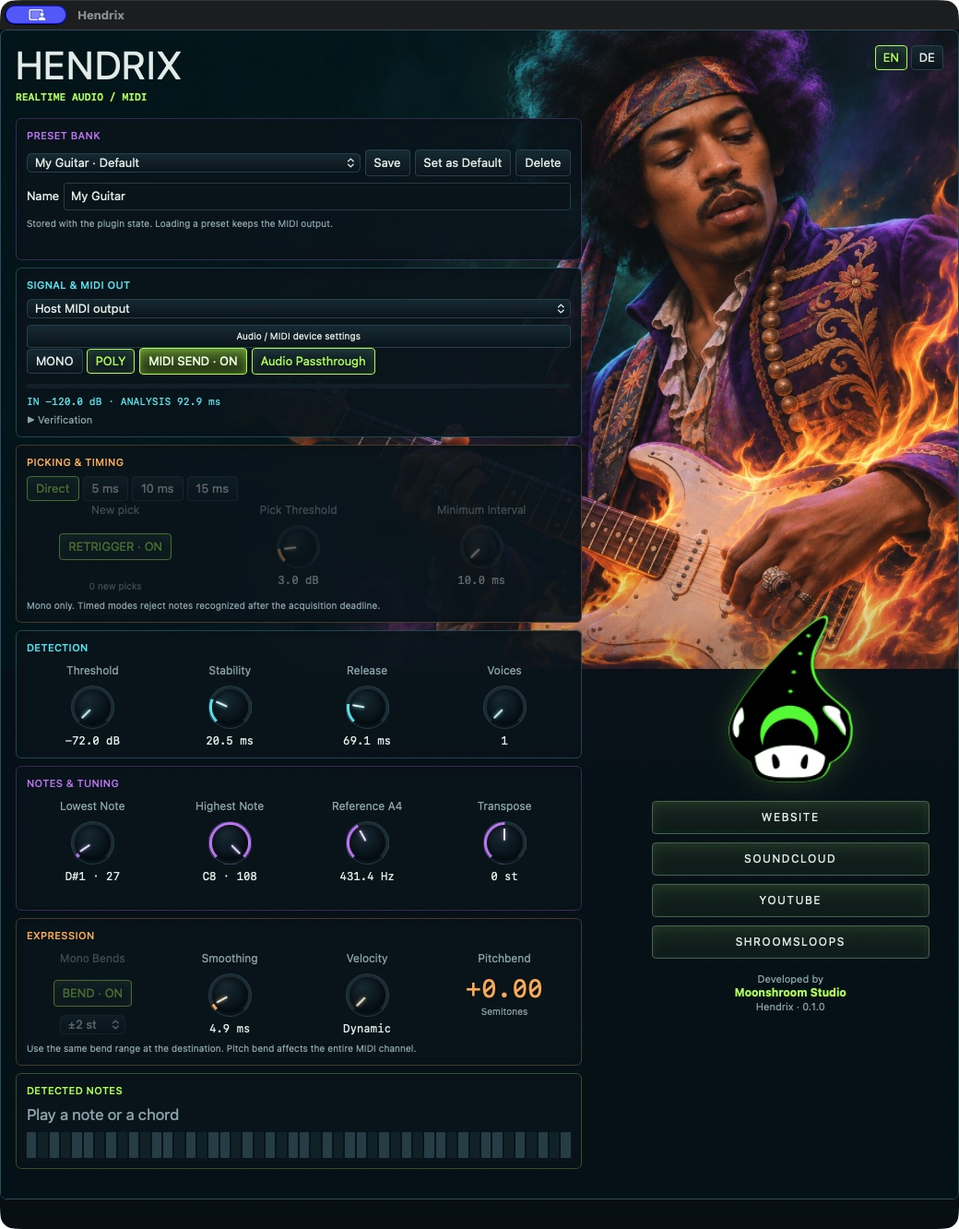
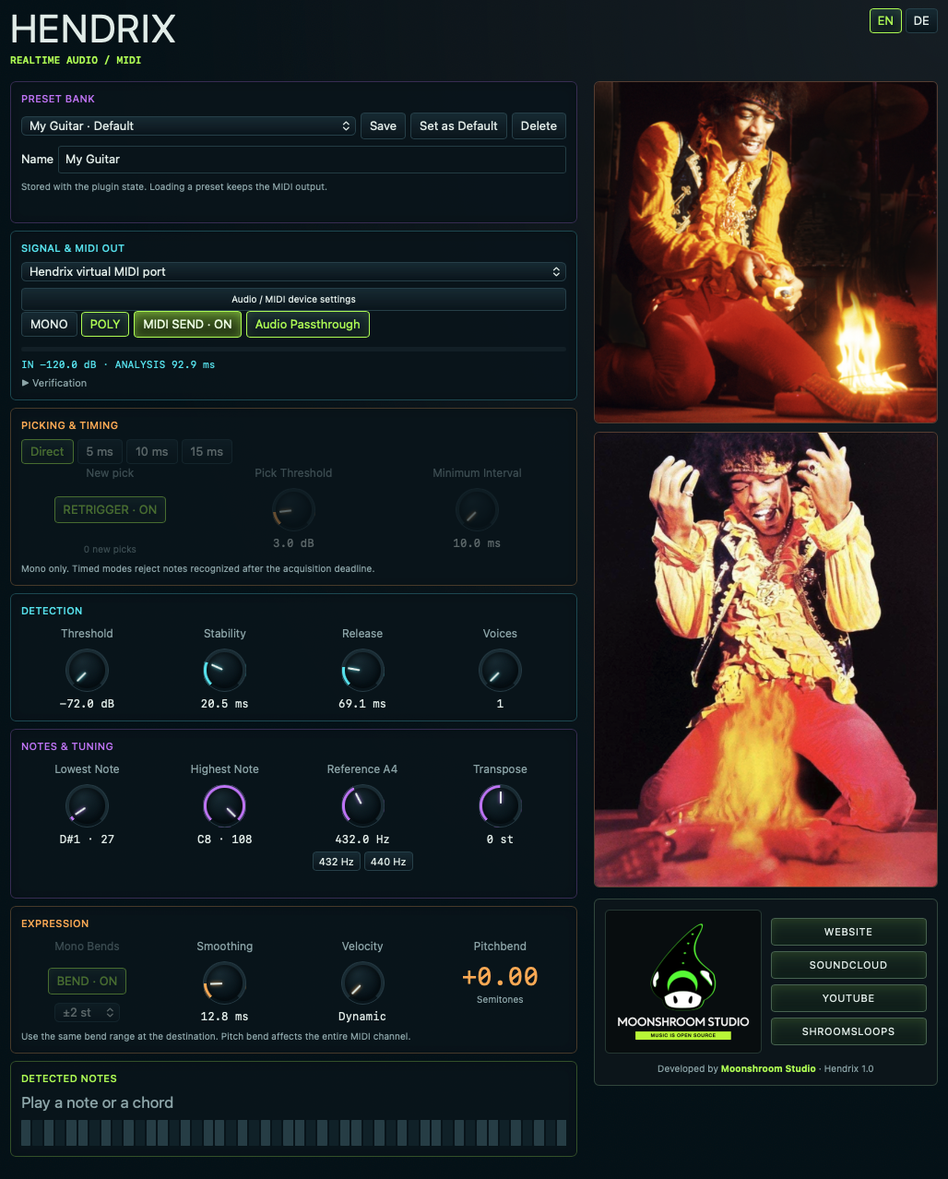
Refresh Hendrix 1.0 source and screenshot

diff --git a/index.html b/index.html
@@ -1,13 +1,67 @@
 <!doctype html><html lang="en"><meta charset="utf-8"><meta name="viewport" content="width=device-width,initial-scale=1">
 <title>Hendrix · Moonshroom Studio</title>
 <style>
-:root{color-scheme:dark;--lime:#a6ff48;--cyan:#45e6ee;--purple:#cf77f9;--fire:#ffaf53;--ink:#e4efeb;--muted:#94aeb1}*{box-sizing:border-box}html,body{margin:0;min-height:100%;background:#020d13;color:var(--ink);font:13px/1.35 -apple-system,BlinkMacSystemFont,"Segoe UI",sans-serif}body{overflow:auto}button,input,select{font:inherit;color:inherit}button,select{border:1px solid #284953;border-radius:4px;background:linear-gradient(#14303a,#06151e);padding:5px 9px;cursor:pointer}button:hover,select:hover{border-color:var(--cyan)}button.active{color:var(--lime);border-color:var(--lime);box-shadow:inset 0 0 12px #a6ff4824}button:disabled{opacity:.38;cursor:default}input{min-width:0;border:1px solid #24454d;background:#04141c;border-radius:3px;padding:5px 7px}button:focus-visible,a:focus-visible,input:focus-visible,select:focus-visible{outline:2px solid var(--lime);outline-offset:3px}#plugin{display:grid;grid-template-columns:61% 1fr 29% 1%;grid-template-rows:auto 1fr;align-items:start;position:relative;min-height:1120px;max-width:1600px;margin:auto;border:1px solid #285867;border-radius:7px;padding:16px;background:#031018 url(hendrix-fire.png) top center/100% auto no-repeat;overflow:hidden}#plugin:before{position:absolute;inset:0;content:"";background:linear-gradient(90deg,#02101758,transparent 72%),linear-gradient(0deg,#031018 15%,transparent 55%);pointer-events:none}header,main,aside{position:relative}header{grid-column:1/-1;display:flex;justify-content:space-between;align-items:flex-start;margin-bottom:17px}h1{font-size:42px;font-weight:400;line-height:1;margin:0 0 7px;letter-spacing:1px}.subtitle{color:var(--lime);font:11px ui-monospace,monospace;font-weight:600}.languages{display:flex;gap:4px}.languages button{padding:4px 8px}.controls{grid-column:1;grid-row:2;min-width:0;display:grid;gap:8px;padding-bottom:16px}section{--accent:var(--cyan);padding:11px;border:1px solid color-mix(in srgb,var(--accent) 26%,transparent);border-radius:6px;background:#04131ce8;box-shadow:inset 0 1px 14px #0003}section h2{font-size:11px;line-height:1.25;font-weight:500;color:var(--accent);margin:0 0 9px;letter-spacing:.35px}.purple{--accent:var(--purple)}.fire{--accent:var(--fire)}.green{--accent:var(--lime)}.row{display:flex;align-items:center;gap:5px;flex-wrap:wrap}.row+.row{margin-top:7px}.grow{flex:1;min-width:100px}#presetName{width:145px;flex:1}small,.hint{font-size:10px;line-height:1.4;color:var(--muted)}.hint{margin-top:7px}.meter{height:5px;border-radius:3px;background:#10232b;overflow:hidden;margin:10px 0 7px}.meter>i{display:block;height:100%;width:0;background:var(--cyan);box-shadow:0 0 10px var(--cyan)}.stats{font:11px ui-monospace,monospace;color:var(--cyan)}details{margin-top:7px}summary{font-size:11px;color:var(--muted);cursor:pointer}.knobs{display:grid;grid-template-columns:repeat(4,minmax(0,1fr));gap:6px}.knobs.two{grid-template-columns:repeat(2,minmax(0,1fr))}.knobs.three{grid-template-columns:repeat(3,minmax(0,1fr))}.knobbox{text-align:center;min-width:0}.knoblabel{font-size:12px;color:var(--muted);min-height:20px;margin-top:2px}.knob{display:block;position:relative;width:47px;height:47px;border-radius:50%;padding:0;margin:4px auto 5px;background:conic-gradient(from 225deg,var(--accent) 0deg,var(--accent) var(--angle),#19313b var(--angle),#19313b 270deg,transparent 270deg);border:1px solid #28434e;cursor:ns-resize;touch-action:none}.knob:before{content:"";position:absolute;inset:3px;border-radius:50%;background:radial-gradient(circle at 35% 25%,#17303a,#041018 70%);box-shadow:inset 0 0 8px #000a}.knob:after{position:absolute;content:"";width:2px;height:13px;background:var(--ink);left:calc(50% - 1px);top:7px;transform-origin:1px 16px;transform:rotate(var(--rotation));border-radius:1px;box-shadow:0 0 4px var(--accent)}.knobvalue{display:block;font:12px ui-monospace,monospace;white-space:nowrap}.knobvalue.zero{color:var(--muted)}.segments{display:flex;gap:4px;flex-wrap:wrap}.segments button{padding:4px 9px}.disabled{opacity:.38;pointer-events:none}.bigbend{font:27px ui-monospace,monospace;color:var(--fire);text-align:center;margin-top:4px}.notenames{color:var(--muted);font-size:17px;margin-bottom:8px}.keyboard{display:flex;gap:2px;height:28px}.key{background:#28464f;flex:1;border-radius:1px}.key.black{background:#0c252e}.key.played{background:var(--lime);box-shadow:0 0 10px var(--lime)}#latency{font:10px ui-monospace,monospace;color:var(--fire);margin-top:5px;min-height:13px}
-.studio{grid-column:3;grid-row:2;margin-top:clamp(380px,calc(61vw - 80px),840px);text-align:center}
-.logo{display:block;width:100%;max-width:248px;margin:0 auto 14px;padding:8px;background:#f3f0e6;border-radius:6px}
-.logo img{display:block;width:100%;height:auto}
+:root{color-scheme:dark;--lime:#a6ff48;--cyan:#45e6ee;--purple:#cf77f9;--fire:#ffaf53;--ink:#e4efeb;--muted:#94aeb1}*{box-sizing:border-box}html,body{margin:0;min-height:100%;background:#020d13;color:var(--ink);font:13px/1.35 -apple-system,BlinkMacSystemFont,"Segoe UI",sans-serif}body{overflow:auto}button,input,select{font:inherit;color:inherit}button,select{border:1px solid #284953;border-radius:4px;background:linear-gradient(#14303a,#06151e);padding:5px 9px;cursor:pointer}button:hover,select:hover{border-color:var(--cyan)}button.active{color:var(--lime);border-color:var(--lime);box-shadow:inset 0 0 12px #a6ff4824}button:disabled{opacity:.38;cursor:default}input{min-width:0;border:1px solid #24454d;background:#04141c;border-radius:3px;padding:5px 7px}button:focus-visible,a:focus-visible,input:focus-visible,select:focus-visible{outline:2px solid var(--lime);outline-offset:3px}#plugin{
+  display:grid;
+  grid-template-columns:minmax(0,1.65fr) minmax(0,1fr);
+  grid-template-rows:auto 1fr;
+  column-gap:18px;
+  align-items:start;
+  min-height:100vh;
+  max-width:1600px;
+  margin:auto;
+  border:1px solid #285867;
+  border-radius:7px;
+  padding:16px;
+  background:radial-gradient(ellipse at top right,#162128,#031018 65%);
+}
+header,main,aside{position:relative}header{grid-column:1/-1;display:flex;justify-content:space-between;align-items:flex-start;margin-bottom:17px}h1{font-size:42px;font-weight:400;line-height:1;margin:0 0 7px;letter-spacing:1px}.subtitle{color:var(--lime);font:11px ui-monospace,monospace;font-weight:600}.languages{display:flex;gap:4px}.languages button{padding:4px 8px}.controls{grid-column:1;grid-row:2;min-width:0;display:grid;gap:8px;padding-bottom:16px}section{--accent:var(--cyan);padding:11px;border:1px solid color-mix(in srgb,var(--accent) 26%,transparent);border-radius:6px;background:#04131ce8;box-shadow:inset 0 1px 14px #0003}section h2{font-size:11px;line-height:1.25;font-weight:500;color:var(--accent);margin:0 0 9px;letter-spacing:.35px}.purple{--accent:var(--purple)}.fire{--accent:var(--fire)}.green{--accent:var(--lime)}.row{display:flex;align-items:center;gap:5px;flex-wrap:wrap}.row+.row{margin-top:7px}.grow{flex:1;min-width:100px}#presetName{width:145px;flex:1}small,.hint{font-size:10px;line-height:1.4;color:var(--muted)}.hint{margin-top:7px}.meter{height:5px;border-radius:3px;background:#10232b;overflow:hidden;margin:10px 0 7px}.meter>i{display:block;height:100%;width:0;background:var(--cyan);box-shadow:0 0 10px var(--cyan)}.stats{font:11px ui-monospace,monospace;color:var(--cyan)}details{margin-top:7px}summary{font-size:11px;color:var(--muted);cursor:pointer}.knobs{display:grid;grid-template-columns:repeat(4,minmax(0,1fr));gap:6px}.knobs.two{grid-template-columns:repeat(2,minmax(0,1fr))}.knobs.three{grid-template-columns:repeat(3,minmax(0,1fr))}.knobbox{text-align:center;min-width:0}.knoblabel{font-size:12px;color:var(--muted);min-height:20px;margin-top:2px}.knob{display:block;position:relative;width:47px;height:47px;border-radius:50%;padding:0;margin:4px auto 5px;background:conic-gradient(from 225deg,var(--accent) 0deg,var(--accent) var(--angle),#19313b var(--angle),#19313b 270deg,transparent 270deg);border:1px solid #28434e;cursor:ns-resize;touch-action:none}.knob:before{content:"";position:absolute;inset:3px;border-radius:50%;background:radial-gradient(circle at 35% 25%,#17303a,#041018 70%);box-shadow:inset 0 0 8px #000a}.knob:after{position:absolute;content:"";width:2px;height:13px;background:var(--ink);left:calc(50% - 1px);top:7px;transform-origin:1px 16px;transform:rotate(var(--rotation));border-radius:1px;box-shadow:0 0 4px var(--accent)}.knobvalue{display:block;font:12px ui-monospace,monospace;white-space:nowrap}.knobvalue.zero{color:var(--muted)}.segments{display:flex;gap:4px;flex-wrap:wrap}.segments button{padding:4px 9px}.disabled{opacity:.38;pointer-events:none}.bigbend{font:27px ui-monospace,monospace;color:var(--fire);text-align:center;margin-top:4px}.notenames{color:var(--muted);font-size:17px;margin-bottom:8px}.keyboard{display:flex;gap:2px;height:28px}.key{background:#28464f;flex:1;border-radius:1px}.key.black{background:#0c252e}.key.played{background:var(--lime);box-shadow:0 0 10px var(--lime)}#latency{font:10px ui-monospace,monospace;color:var(--fire);margin-top:5px;min-height:13px}
+.a4-control{min-width:0}
+.a4-presets{display:flex;justify-content:center;gap:4px;flex-wrap:wrap;margin-top:6px}
+.a4-presets button{font-size:11px;line-height:1.2;padding:3px 6px;white-space:nowrap}
+.studio{grid-column:2;grid-row:2;display:grid;gap:12px;min-width:0}
+.portraits{display:grid;gap:9px;margin:0}
+.portraits img{display:block;width:100%;height:auto;border-radius:6px;border:1px solid #624437}
+.studio-card{
+  display:grid;
+  grid-template-columns:repeat(2,minmax(0,1fr));
+  align-items:center;
+  gap:10px;
+  padding:11px;
+  background:#08151c;
+  border:1px solid #355044;
+  border-radius:6px;
+  text-align:center;
+}
+.logo{display:block;padding:6px;background:#030a0d;border:1px solid #274039;border-radius:5px}
+.logo-art{display:block;position:relative}
+.logo-art img{display:block;width:100%;height:auto}
+.logo-art::after{
+  content:"";
+  position:absolute;
+  inset:0;
+  background:url(moonshroom-studio.png) center / 100% 100% no-repeat;
+  /* Keep the original artwork and lift only the dark wordmark for contrast. */
+  clip-path:inset(76.5% 0 15% 0);
+  filter:brightness(0) invert(.94);
+  pointer-events:none;
+}
 .logo:hover,.logo:focus-visible{outline:2px solid var(--lime);outline-offset:2px}
-.studio nav{display:grid;gap:9px}.studio nav a{display:block;color:var(--ink);text-decoration:none;text-transform:uppercase;font-size:12px;letter-spacing:1.5px;padding:9px 5px;border:1px solid #4c6e59;border-radius:4px;background:linear-gradient(#183324e8,#041a18ef);box-shadow:inset 0 1px 10px #a6ff4817}.studio nav a:hover{color:var(--lime);border-color:var(--lime);box-shadow:0 0 10px #a6ff4833}.credit{font-size:11px;color:var(--muted);margin-top:15px}.credit strong{color:var(--lime);display:block;font-size:12px}.status{min-height:15px;color:var(--purple);font-size:11px;margin-top:6px}#send.active{background:linear-gradient(#518022,#183009);color:#edffe6;box-shadow:inset 0 0 9px #a6ff4870}#route{width:100%}.devices{margin-top:7px;font-size:10px;width:100%}#preview{font-size:10px;color:var(--muted);display:none;margin-top:5px}
-@media(max-width:650px){#plugin{display:block;padding:11px;background-size:140% auto;background-position:70% top}.controls{width:100%;padding-top:135px}.studio{width:100%;display:grid;grid-template-columns:minmax(110px,35%) 1fr;gap:15px;align-items:center;margin-top:10px}.studio .logo{margin:0}.studio .credit{grid-column:1/-1;margin:0}.studio nav{gap:5px;grid-template-columns:1fr 1fr}.studio nav a{font-size:10px;letter-spacing:.5px;padding:8px 3px}h1{font-size:36px}.knoblabel{font-size:11px}.knobvalue{font-size:10px}}
+.studio nav{display:grid;gap:6px}
+.studio nav a{display:block;color:var(--ink);text-decoration:none;text-transform:uppercase;font-size:11px;letter-spacing:.6px;padding:7px 4px;border:1px solid #4c6e59;border-radius:4px;background:linear-gradient(#183324,#041a18);box-shadow:inset 0 1px 10px #a6ff4817}
+.studio nav a:hover{color:var(--lime);border-color:var(--lime);box-shadow:0 0 10px #a6ff4833}
+.credit{grid-column:1/-1;font-size:10px;color:var(--muted)}
+.credit strong{color:var(--lime)}
+.status{min-height:15px;color:var(--purple);font-size:11px;margin-top:6px}#send.active{background:linear-gradient(#518022,#183009);color:#edffe6;box-shadow:inset 0 0 9px #a6ff4870}#route{width:100%}.devices{margin-top:7px;font-size:10px;width:100%}#preview{font-size:10px;color:var(--muted);display:none;margin-top:5px}
+@media(max-width:650px){
+  #plugin{display:block;padding:11px}
+  .studio{gap:10px}
+  .portraits{grid-template-columns:repeat(2,minmax(0,1fr));align-items:start}
+  .studio-card{max-width:380px;width:100%;margin:auto}
+  h1{font-size:36px}
+  .knoblabel{font-size:11px}
+  .knobvalue{font-size:10px}
+}
 </style>
 <div id="plugin"><header><div><h1>HENDRIX</h1><div class="subtitle" data-i="subtitle">REALTIME AUDIO / MIDI</div><div id="preview" data-i="preview">Interface preview · no audio input</div></div><div class="languages"><button id="en" aria-label="English">EN</button><button id="de" aria-label="Deutsch">DE</button></div></header>
 <main class="controls">
@@ -15,11 +69,34 @@
 <section><h2 data-i="signal">SIGNAL & MIDI OUT</h2><select id="route" aria-label="MIDI output"><option value="0" data-i="hostOut">Host MIDI output</option><option value="1" data-i="virtualOut">Hendrix virtual MIDI port</option></select><button class="devices" id="devices" data-i="devices">Audio / MIDI device settings</button><div class="row"><div class="segments" data-segment="0"><button data-value="0">MONO</button><button data-value="1">POLY</button></div><button id="send" data-toggle="1" data-i="send">MIDI SEND</button><button data-toggle="12" data-i="passthrough">Audio Passthrough</button></div><div class="meter"><i id="meter"></i></div><div class="stats" id="stats">IN −120.0 dB</div><details><summary data-i="verification">Verification</summary><div class="segments" data-segment="11"><button data-value="0" data-i="fast">Fast</button><button data-value="1" data-i="balanced">Balanced</button><button data-value="2" data-i="accurate">Accurate</button></div></details></section>
 <section class="fire"><h2 data-i="picking">PICKING & TIMING</h2><div id="monoTiming"><div class="segments" data-segment="16"><button data-value="0" data-i="direct">Direct</button><button data-value="1">5 ms</button><button data-value="2">10 ms</button><button data-value="3">15 ms</button></div><div class="knobs three"><div class="knobbox"><div class="knoblabel" data-i="repick">New pick</div><button data-toggle="17" data-i="retrigger" style="margin:13px auto 14px">RETRIGGER</button><div class="hint" id="attacks">0</div></div><div data-knob="18"></div><div data-knob="19"></div></div></div><div class="hint" data-i="timingHint">Mono only. Timed modes reject notes recognized after the acquisition deadline.</div></section>
 <section><h2 data-i="detection">DETECTION</h2><div class="knobs"><div data-knob="2"></div><div data-knob="3"></div><div data-knob="4"></div><div data-knob="7"></div></div></section>
-<section class="purple"><h2 data-i="tuning">NOTES & TUNING</h2><div class="knobs"><div data-knob="5"></div><div data-knob="6"></div><div data-knob="8"></div><div data-knob="9"></div></div><div id="latency" title=""></div></section>
+<section class="purple"><h2 data-i="tuning">NOTES & TUNING</h2><div class="knobs"><div data-knob="5"></div><div data-knob="6"></div><div class="a4-control">
+  <div data-knob="8"></div>
+  <div class="a4-presets" role="group" aria-label="A4">
+    <button type="button" data-a4="432" aria-pressed="false">432 Hz</button>
+    <button type="button" data-a4="440" aria-pressed="false">440 Hz</button>
+  </div>
+</div><div data-knob="9"></div></div><div id="latency" title=""></div></section>
 <section class="fire"><h2 data-i="expression">EXPRESSION</h2><div class="knobs"><div class="knobbox" id="monoBend"><div class="knoblabel" data-i="monoBends">Mono Bends</div><button data-toggle="13" data-i="bend" style="margin-top:11px">BEND</button><select id="bendRange" aria-label="Pitch-bend range" style="margin-top:9px"><option value="0">±2 st</option><option value="1">±12 st</option><option value="2">±24 st</option></select></div><div data-knob="15"></div><div data-knob="10"></div><div class="knobbox"><div class="knoblabel" data-i="pitchbend">Pitchbend</div><div class="bigbend" id="bend">+0.00</div><small data-i="semitones">Semitones</small></div></div><div class="hint" data-i="bendHint">Use the same bend range at the destination. Pitch bend affects the entire MIDI channel.</div></section>
 <section class="green"><h2 data-i="detected">DETECTED NOTES</h2><div class="notenames" id="notes" data-i="play">Play a note or a chord</div><div class="keyboard" id="keyboard" aria-label="Detected MIDI notes"></div></section>
 </main>
-<aside class="studio"><a class="logo" data-link="0" href="https://moonshroom.moonshroom303.chatgpt.site/" target="_blank" rel="noopener noreferrer" aria-label="Moonshroom Studio · Website"><img src="moonshroom-studio.png" width="1312" height="1199" alt="Moonshroom Studio – Music is Open Source"></a><nav><a data-link="0" href="https://moonshroom.moonshroom303.chatgpt.site/" target="_blank" rel="noopener noreferrer" data-i="website">Website</a><a data-link="1" href="https://www.soundcloud.com/moonshroom303" target="_blank" rel="noopener noreferrer">SoundCloud</a><a data-link="2" href="https://www.youtube.com/@moonshroom303" target="_blank" rel="noopener noreferrer">YouTube</a><a data-link="3" href="https://shroomsloops-studio-231026.moonshroom303.chatgpt.site/#" target="_blank" rel="noopener noreferrer">ShroomsLoops</a></nav><div class="credit"><span data-i="developed">Developed by</span><strong>Moonshroom Studio</strong><span>Hendrix · 1.0</span></div></aside></div>
+<aside class="studio">
+  <figure class="portraits">
+    <img src="hendrix-live-01.png" width="1046" height="1041" alt="Jimi Hendrix kneels beside his burning guitar">
+    <img src="hendrix-live-02.png" width="978" height="1298" alt="Jimi Hendrix raises his hands above the flames">
+  </figure>
+  <div class="studio-card">
+    <a class="logo" data-link="0" href="https://moonshroom.moonshroom303.chatgpt.site/" target="_blank" rel="noopener noreferrer" aria-label="Moonshroom Studio · Website">
+      <span class="logo-art"><img src="moonshroom-studio.png" width="1312" height="1199" alt="Moonshroom Studio – Music is Open Source"></span>
+    </a>
+    <nav>
+      <a data-link="0" href="https://moonshroom.moonshroom303.chatgpt.site/" target="_blank" rel="noopener noreferrer" data-i="website">Website</a>
+      <a data-link="1" href="https://www.soundcloud.com/moonshroom303" target="_blank" rel="noopener noreferrer">SoundCloud</a>
+      <a data-link="2" href="https://www.youtube.com/@moonshroom303" target="_blank" rel="noopener noreferrer">YouTube</a>
+      <a data-link="3" href="https://shroomsloops-studio-231026.moonshroom303.chatgpt.site/#" target="_blank" rel="noopener noreferrer">ShroomsLoops</a>
+    </nav>
+    <div class="credit"><span data-i="developed">Developed by</span> <strong>Moonshroom Studio</strong> <span>· Hendrix 1.0</span></div>
+  </div>
+</aside></div>
 <script>
 'use strict';
 const D={en:{subtitle:'REALTIME AUDIO / MIDI',preview:'Interface preview · no audio input',presetBank:'PRESET BANK',save:'Save',default:'Set as Default',delete:'Delete',name:'Name',presetHint:'Stored with the plugin state. Loading a preset keeps the MIDI output.',signal:'SIGNAL & MIDI OUT',hostOut:'Host MIDI output',virtualOut:'Hendrix virtual MIDI port',devices:'Audio / MIDI device settings',send:'MIDI SEND',passthrough:'Audio Passthrough',verification:'Verification',fast:'Fast',balanced:'Balanced',accurate:'Accurate',picking:'PICKING & TIMING',direct:'Direct',repick:'New pick',retrigger:'RETRIGGER',timingHint:'Mono only. Timed modes reject notes recognized after the acquisition deadline.',detection:'DETECTION',tuning:'NOTES & TUNING',expression:'EXPRESSION',monoBends:'Mono Bends',bend:'BEND',pitchbend:'Pitchbend',semitones:'Semitones',bendHint:'Use the same bend range at the destination. Pitch bend affects the entire MIDI channel.',detected:'DETECTED NOTES',play:'Play a note or a chord',website:'Website',developed:'Developed by',dynamic:'Dynamic',on:'ON',off:'OFF',defaultMark:'Default',factory:'Factory settings',waiting:'waiting',period:'PERIOD',analysis:'ANALYSIS',newPicks:'new picks',latency:'Lowest note',latencyHint:'Estimated recognition time for the lowest permitted note: one to one-and-a-half periods. Hardware buffers and the synth add latency. Higher played notes are recognized faster.',saved:'Preset saved',defaultSaved:'Default saved',deleted:'Preset deleted',needName:'Enter a preset name.',hostSettings:'Configure audio and MIDI routing in your DAW.',noNote:'No note detected'},de:{subtitle:'ECHTZEIT AUDIO / MIDI',preview:'Oberflächenvorschau · kein Audioeingang',presetBank:'PRESETBANK',save:'Speichern',default:'Als Standard',delete:'Löschen',name:'Name',presetHint:'Wird im Plugin-Zustand gespeichert. MIDI-Ausgang bleibt beim Presetwechsel erhalten.',signal:'SIGNAL & MIDI-AUSGANG',hostOut:'MIDI-Ausgang des Hosts',virtualOut:'Virtueller Hendrix-MIDI-Port',devices:'Audio-/MIDI-Geräteeinstellungen',send:'MIDI SENDEN',passthrough:'Audio durchlassen',verification:'Nachprüfung',fast:'Schnell',balanced:'Ausgewogen',accurate:'Genau',picking:'ANSCHLÄGE & ZEITMODUS',direct:'Direkt',repick:'Neu anschlagen',retrigger:'RETRIGGER',timingHint:'Nur Mono. Zeitmodi verwerfen Noten, die nach dem Erkennungsfenster erkannt werden.',detection:'ERKENNUNG',tuning:'NOTEN & STIMMUNG',expression:'EXPRESSION',monoBends:'Mono-Bends',bend:'BEND',pitchbend:'Pitchbend',semitones:'Halbtöne',bendHint:'Am Ziel denselben Bend-Bereich einstellen. Pitchbend wirkt auf den gesamten MIDI-Kanal.',detected:'ERKANNTE NOTEN',play:'Spiele eine Note oder einen Akkord',website:'Webseite',developed:'Entwickelt von',dynamic:'Dynamik',on:'AN',off:'AUS',defaultMark:'Standard',factory:'Werkseinstellungen',waiting:'wartet',period:'PERIODE',analysis:'ANALYSE',newPicks:'neue Anschläge',latency:'Tiefste Note',latencyHint:'Geschätzte Erkennung für die tiefste erlaubte Note: eine bis anderthalb Perioden. Audiopuffer und Synth kommen hinzu. Höhere gespielte Noten werden schneller erkannt.',saved:'Preset gespeichert',defaultSaved:'Standard gespeichert',deleted:'Preset gelöscht',needName:'Bitte einen Presetnamen eingeben.',hostSettings:'Audio- und MIDI-Routing im Host einstellen.',noNote:'Keine Note erkannt'}};
@@ -36,11 +113,21 @@ function gesture(i,v){send({msg:'BPCFUI',paramIdx:i});set(i,v);send({msg:'EPCFUI
 for(const box of document.querySelectorAll('[data-knob]')){const i=Number(box.dataset.knob);box.className='knobbox';box.innerHTML='<div class="knoblabel"></div><button class="knob" role="slider" aria-valuemin="'+min[i]+'" aria-valuemax="'+max[i]+'"></button><output class="knobvalue"></output>';const b=box.querySelector('button');let drag=null;b.addEventListener('pointerdown',e=>{if(e.altKey){gesture(i,initial[i]);return}e.preventDefault();b.focus();drag={x:e.clientX,y:e.clientY,value:values[i]};b.setPointerCapture(e.pointerId);send({msg:'BPCFUI',paramIdx:i})});b.addEventListener('pointermove',e=>{if(!drag)return;set(i,drag.value+((e.clientX-drag.x)-(e.clientY-drag.y))/180*(max[i]-min[i])*(e.shiftKey?.12:1))});function end(){if(drag){send({msg:'EPCFUI',paramIdx:i});drag=null}}b.addEventListener('pointerup',end);b.addEventListener('pointercancel',end);b.addEventListener('dblclick',()=>gesture(i,initial[i]));b.addEventListener('keydown',e=>{if(['ArrowUp','ArrowRight','ArrowDown','ArrowLeft'].includes(e.key)){e.preventDefault();gesture(i,values[i]+(['ArrowUp','ArrowRight'].includes(e.key)?1:-1)*Math.max(integer.has(i)?1:0,(max[i]-min[i])*(e.shiftKey?.001:.01)))}})}
 for(const group of document.querySelectorAll('[data-segment]'))for(const button of group.querySelectorAll('button'))button.onclick=()=>gesture(Number(group.dataset.segment),Number(button.dataset.value));
 for(const button of document.querySelectorAll('[data-toggle]'))button.onclick=()=>gesture(Number(button.dataset.toggle),values[Number(button.dataset.toggle)]>=.5?0:1);
+const a4Presets = document.querySelectorAll('[data-a4]');
+for (const button of a4Presets) {
+  button.addEventListener('click', () => gesture(8, Number(button.dataset.a4)));
+}
 $('#bendRange').onchange=e=>gesture(14,Number(e.target.value));
 for(const a of document.querySelectorAll('[data-link]'))a.addEventListener('click',e=>{if(native){e.preventDefault();command(900,{link:Number(a.dataset.link)})}});
 for(const lang of ['en','de'])$('#'+lang).onclick=()=>{language=lang;state.language=lang;command(901,{op:'language',language});renderLanguage()};
 function renderLanguage(){document.documentElement.lang=language;for(const e of document.querySelectorAll('[data-i]')){if(e.id==='notes'&&lastMetrics.notes.length)continue;e.textContent=t(e.dataset.i)}$('#en').classList.toggle('active',language==='en');$('#de').classList.toggle('active',language==='de');for(const box of document.querySelectorAll('[data-knob]')){const i=Number(box.dataset.knob);box.querySelector('.knoblabel').textContent=labels[language][i];box.querySelector('button').setAttribute('aria-label',labels[language][i])}renderPresets();render();metrics(lastMetrics)}
-function render(){for(const box of document.querySelectorAll('[data-knob]')){const i=Number(box.dataset.knob),n=(values[i]-min[i])/(max[i]-min[i]),b=box.querySelector('button');b.style.setProperty('--angle',(270*n)+'deg');b.style.setProperty('--rotation',(-135+270*n)+'deg');b.setAttribute('aria-valuenow',values[i]);b.setAttribute('aria-valuetext',format(i,values[i]));box.querySelector('output').textContent=format(i,values[i])}for(const group of document.querySelectorAll('[data-segment]'))for(const b of group.querySelectorAll('button'))b.classList.toggle('active',Math.round(values[Number(group.dataset.segment)])===Number(b.dataset.value));for(const b of document.querySelectorAll('[data-toggle]')){const on=values[Number(b.dataset.toggle)]>=.5;b.classList.toggle('active',on);b.setAttribute('aria-pressed',on);b.textContent=t(b.dataset.i)+(Number(b.dataset.toggle)===12?'':' · '+t(on?'on':'off'))}$('#monoTiming').classList.toggle('disabled',values[0]>=.5);$('#monoBend').classList.toggle('disabled',values[0]>=.5);$('#bendRange').value=Math.round(values[14]);let period=1000/(values[8]*2**((Math.min(values[5],values[6])-69)/12));$('#latency').textContent=values[0]<.5&&values[16]<.5?t('latency')+' ≈ '+period.toFixed(1)+'–'+(period*1.5).toFixed(1)+' ms':'';$('#latency').title=t('latencyHint')}
+function render(){
+  for (const button of a4Presets) {
+    const active = Math.abs(values[8] - Number(button.dataset.a4)) < 0.001;
+    button.classList.toggle('active', active);
+    button.setAttribute('aria-pressed', String(active));
+  }
+  for(const box of document.querySelectorAll('[data-knob]')){const i=Number(box.dataset.knob),n=(values[i]-min[i])/(max[i]-min[i]),b=box.querySelector('button');b.style.setProperty('--angle',(270*n)+'deg');b.style.setProperty('--rotation',(-135+270*n)+'deg');b.setAttribute('aria-valuenow',values[i]);b.setAttribute('aria-valuetext',format(i,values[i]));box.querySelector('output').textContent=format(i,values[i])}for(const group of document.querySelectorAll('[data-segment]'))for(const b of group.querySelectorAll('button'))b.classList.toggle('active',Math.round(values[Number(group.dataset.segment)])===Number(b.dataset.value));for(const b of document.querySelectorAll('[data-toggle]')){const on=values[Number(b.dataset.toggle)]>=.5;b.classList.toggle('active',on);b.setAttribute('aria-pressed',on);b.textContent=t(b.dataset.i)+(Number(b.dataset.toggle)===12?'':' · '+t(on?'on':'off'))}$('#monoTiming').classList.toggle('disabled',values[0]>=.5);$('#monoBend').classList.toggle('disabled',values[0]>=.5);$('#bendRange').value=Math.round(values[14]);let period=1000/(values[8]*2**((Math.min(values[5],values[6])-69)/12));$('#latency').textContent=values[0]<.5&&values[16]<.5?t('latency')+' ≈ '+period.toFixed(1)+'–'+(period*1.5).toFixed(1)+' ms':'';$('#latency').title=t('latencyHint')}
 function renderPresets(){const s=$('#presets');s.replaceChildren();for(const p of state.presets){const o=document.createElement('option');o.value=p.id;o.textContent=p.name+(p.id===state.default?' · '+t('defaultMark'):'');s.append(o)}if(state.presets.some(p=>p.id===selected))s.value=selected;else{selected=state.presets[0]?.id||0;s.value=selected}$('#delete').disabled=!selected}
 $('#presets').onchange=e=>{selected=Number(e.target.value);const p=state.presets.find(p=>p.id===selected);if(p){$('#presetName').value=p.name;if(native)command(901,{op:'load',id:selected});else{values=[...p.values];render()}}};
 function bank(op){const name=$('#presetName').value.trim();if((op==='save'||op==='default')&&!name){$('#status').textContent=t('needName');return}if(native)command(901,{op,id:selected,name});else{if(op==='delete'){state.presets=state.presets.filter(p=>p.id!==selected);if(state.default===selected)state.default=0;selected=0}else{let p=state.presets.find(p=>p.name===name);if(p)p.values=[...values];else{p={id:Math.max(0,...state.presets.map(p=>p.id))+1,name,values:[...values]};state.presets.push(p)}selected=p.id;if(op==='default')state.default=p.id}renderPresets()}$('#status').textContent=t(op==='default'?'defaultSaved':op==='delete'?'deleted':'saved')}

diff --git a/gui.rs b/gui.rs
@@ -174,7 +174,7 @@ impl Panel {
             .ctx()
             .data(|d| d.get_temp::<egui::TextureHandle>(image_key))
             .unwrap_or_else(|| {
-                let pixels = image::load_from_memory(include_bytes!("hendrix-fire.png"))
+                let pixels = image::load_from_memory(include_bytes!("hendrix-live-01.png"))
                     .expect("bundled image")
                     .to_rgba8();
                 let t = ui.ctx().load_texture(
@@ -191,7 +191,12 @@ impl Panel {
         let width = ui.available_width().max(280.);
         let top = ui.cursor().top();
         let x = ui.min_rect().left();
-        let art = Rect::from_min_size(egui::pos2(x, top), egui::vec2(width, width / 1.5));
+        let art_width = width * 0.4;
+        let art_height = art_width * texture.size_vec2().y / texture.size_vec2().x;
+        let art = Rect::from_min_size(
+            egui::pos2(x + width - art_width, top),
+            egui::vec2(art_width, art_height),
+        );
         ui.painter().rect_filled(
             ui.available_rect_before_wrap(),
             8.,

diff --git a/README.md b/README.md
@@ -6,19 +6,19 @@ Play a guitar or another instrument and drive a synthesizer with MIDI notes and 
 
 [Website](https://moonshroom.moonshroom303.chatgpt.site/) · [SoundCloud](https://www.soundcloud.com/moonshroom303) · [YouTube](https://www.youtube.com/@moonshroom303) · [ShroomsLoops](https://shroomsloops-studio-231026.moonshroom303.chatgpt.site/#)
 
-![Actual Hendrix standalone interface: English/German switch, Moonshroom logo and four website buttons](Hendrix.png)
+![Hendrix 1.0 with the 432 Hz and 440 Hz A4 presets, two performance photos and Moonshroom Studio branding](Hendrix.png)
 
 ## Downloads
 
-The [current beta](https://github.com/moonshroom303/hendrix/releases/tag/v1.0) provides three **Apple Silicon / macOS 12+** formats:
+[Hendrix 1.0](https://github.com/moonshroom303/hendrix/releases/tag/v1.0) provides three **Apple Silicon / macOS 12+** formats:
 
 | Format | Package | Installation |
 | --- | --- | --- |
-| Audio Unit v2 | [Hendrix-1.0-Build5-macOS-arm64-AU.zip](https://github.com/moonshroom303/hendrix/releases/download/v1.0/Hendrix-1.0-Build5-macOS-arm64-AU.zip) | Copy `Hendrix.component` to `~/Library/Audio/Plug-Ins/Components/`. |
-| VST3 | [Hendrix-1.0-Build5-macOS-arm64-VST3.zip](https://github.com/moonshroom303/hendrix/releases/download/v1.0/Hendrix-1.0-Build5-macOS-arm64-VST3.zip) | Copy `Hendrix.vst3` to `~/Library/Audio/Plug-Ins/VST3/`. |
-| Standalone | [Hendrix-1.0-Build5-macOS-arm64-Standalone.zip](https://github.com/moonshroom303/hendrix/releases/download/v1.0/Hendrix-1.0-Build5-macOS-arm64-Standalone.zip) | Copy `Hendrix.app` to Applications or another local folder. |
+| Audio Unit v2 | [Hendrix-1.0-macOS-arm64-AU.zip](https://github.com/moonshroom303/hendrix/releases/download/v1.0/Hendrix-1.0-macOS-arm64-AU.zip) | Copy `Hendrix.component` to `~/Library/Audio/Plug-Ins/Components/`. |
+| VST3 | [Hendrix-1.0-macOS-arm64-VST3.zip](https://github.com/moonshroom303/hendrix/releases/download/v1.0/Hendrix-1.0-macOS-arm64-VST3.zip) | Copy `Hendrix.vst3` to `~/Library/Audio/Plug-Ins/VST3/`. |
+| Standalone | [Hendrix-1.0-macOS-arm64-Standalone.zip](https://github.com/moonshroom303/hendrix/releases/download/v1.0/Hendrix-1.0-macOS-arm64-Standalone.zip) | Copy `Hendrix.app` to Applications or another local folder. |
 
-The current download is **Hendrix 1.0, build 5**, with the Moonshroom Studio logo and “MUSIC IS OPEN SOURCE” artwork. [Matching build 5 source](https://github.com/moonshroom303/hendrix/archive/refs/heads/main.zip). Each ZIP includes instructions and license notices. The builds are ad-hoc signed; **Apple notarization is not included**. Intel, Windows and Linux binaries are not part of this beta. The Rust detection library is independently reusable.
+Each ZIP includes installation instructions and license notices. The macOS packages are ad-hoc signed. The Rust detection library is independently reusable. [SHA-256 checksums](https://github.com/moonshroom303/hendrix/releases/download/v1.0/SHA256SUMS.txt).
 
 ## Getting sound
 
@@ -36,7 +36,8 @@ The AU is a music effect, not a synthesizer. Hendrix itself does not generate a 
 - **Direct** estimates a mono note from the first usable waveform cycle and verifies the provisional pitch afterward.
 - **5 / 10 / 15 ms** are mono acquisition deadlines. Pitches recognized later are rejected.
 - **Pick Threshold** and **Minimum Interval** control new attacks on a repeated note.
-- Threshold, stability, release, voice count, lowest/highest note, A4 reference, transposition and velocity refine the tracking.
+- The **A4 reference** has **432 Hz** and **440 Hz** presets. Turn the knob to set any reference between 400 and 480 Hz.
+- Threshold, stability, release, voice count, lowest/highest note, transposition and velocity refine the tracking.
 - Mono bends support ±2 / ±12 / ±24 semitones and adjustable smoothing. Pitch bend affects the entire MIDI channel; this is not independent per-note polyphonic bend.
 - **Save** stores the current controls under the entered preset name. Loading preserves MIDI routing. The bank, language and controls are stored with plugin state; the standalone app remembers its own state.
 - **Set as Default** also saves the bank and selected starting preset for newly created instances on this Mac. Existing project instances retain their saved state.
@@ -74,20 +75,14 @@ cargo run --locked --features preview --bin hendrix-preview
 
 The library exports `Processor`, parameter metadata and `midi::MidiReader`. Prepare/allocate before processing, apply parameter changes at a safe block boundary and keep the reader's parameter snapshot synchronized. `ffi.rs` exposes the C-compatible bridge used by the native formats. UI telemetry reads a separate atomic output handle.
 
-`MidiReader` owns only its emitted notes. Flush against the old destination before switching routes, disabling processing or removing an instance. Shared MIDI channels still require coordination by the host. The original ShroomsLoops engine and UI remain in the two `shroomsloops_*_reference.rs` files as integration references.
+`MidiReader` owns only its emitted notes. Flush against the old destination before switching routes, disabling processing or removing an instance. Shared MIDI channels still require coordination by the host.
 
 ## Verification
 
-- 24 Rust tests: first-cycle tracking, chords, pick retriggers, bends, MIDI ownership, preset handling, allocation checks and C-bridge audio/MIDI behavior.
-- Official Steinberg VST3 validator: **47 passed, 0 failed**.
-- AU and VST3 offline host probes: a 440 Hz input produces A4 note-on and note-off; audio passes through. The AU probe also checks saved-state restoration.
-- Standalone launch, English/German switching, preset save/load/delete and the corrected layout checked in the running app.
-- All three bundles pass strict code-signature verification.
-
-These checks establish a tested beta, not exhaustive compatibility with every host or physical instrument. See `BUILD-TESTS.txt` for reproducible commands.
+[BUILD-TESTS.txt](BUILD-TESTS.txt) lists checks for the Rust library, AU and VST3 host loading, and the macOS packages.
 
 ## License
 
 Copyright © 2026 **Moonshroom Studio**. Source is released under the [MIT License](LICENSE). Dependencies retain their own licenses; see [third-party notices](THIRD_PARTY_NOTICES.md) and `DEPENDENCY-LICENSES.txt`.
 
-The portrait is generated artwork. Hendrix is developed by Moonshroom Studio.
+See [third-party notices](THIRD_PARTY_NOTICES.md) for the photographs and artwork used in the interface.

diff --git a/CHANGELOG.md b/CHANGELOG.md
@@ -2,22 +2,10 @@
 
 ## 1.0
 
-Build 5, 7 November 2026
-
-- Add the original Moonshroom Studio logo and “MUSIC IS OPEN SOURCE” artwork in AU, VST3 and the standalone app.
-- Open the Moonshroom website when the logo is clicked.
-- Keep the four separate website, SoundCloud, YouTube and ShroomsLoops links.
-
-- Add the supplied Moonshroom guitar-and-MIDI artwork as the macOS application icon.
-- Include the icon in reproducible builds and app bundles.
-- Audio/MIDI processing is unchanged.
-
-## 0.1.0 — first public beta
-
-- Standalone macOS app, Audio Unit v2 and VST3 formats with the Rust Hendrix engine.
-- Host MIDI output and an optional per-instance virtual CoreMIDI output.
-- English/German interface, preset bank and configurable default settings.
-- Moonshroom Studio logo and four browser links in the right column.
-- First-cycle mono detection, bounded acquisition modes, polyphonic analysis, pick retriggering and mono pitch bend.
-- Offline Rust, AU audio/MIDI/state and official VST3 validator checks.
-- Retain the reusable Rust API, synthetic-tone preview and original ShroomsLoops integration references.
+- Real-time mono and polyphonic audio-to-MIDI in Audio Unit v2, VST3 and standalone for Apple Silicon.
+- First-cycle mono detection, timed acquisition, pick retriggering and mono pitch bend.
+- Host MIDI output and per-instance virtual CoreMIDI routing.
+- English and German interface, preset bank and configurable defaults.
+- A4 reference presets for 432 Hz and 440 Hz alongside the adjustable tuning knob.
+- Two performance photos, a dark Moonshroom Studio logo panel and four website links.
+- Current 1.0 packages and checksums under the v1.0 release.

diff --git a/THIRD_PARTY_NOTICES.md b/THIRD_PARTY_NOTICES.md
@@ -9,4 +9,4 @@ Hendrix is developed by Moonshroom Studio and released under the MIT License.
 
 `build_plugins.py` makes two clearly marked changes to the pinned iPlug2 source: it maps bipolar pitch bend to the full unsigned MIDI range in the VST3 adapter, and uses RtMidi's pointer overload to avoid a temporary allocation for each standalone MIDI event. All other framework copyrights and licenses are retained.
 
-The portrait is generated illustration. The Moonshroom logo was supplied by Moonshroom Studio. No endorsement by the depicted artist or his estate is implied.
+The macOS interface includes two supplied performance photographs of Jimi Hendrix. The MIT software license does not cover those photographs. The Moonshroom logo was supplied by Moonshroom Studio. No endorsement by the depicted artist or his estate is implied.
